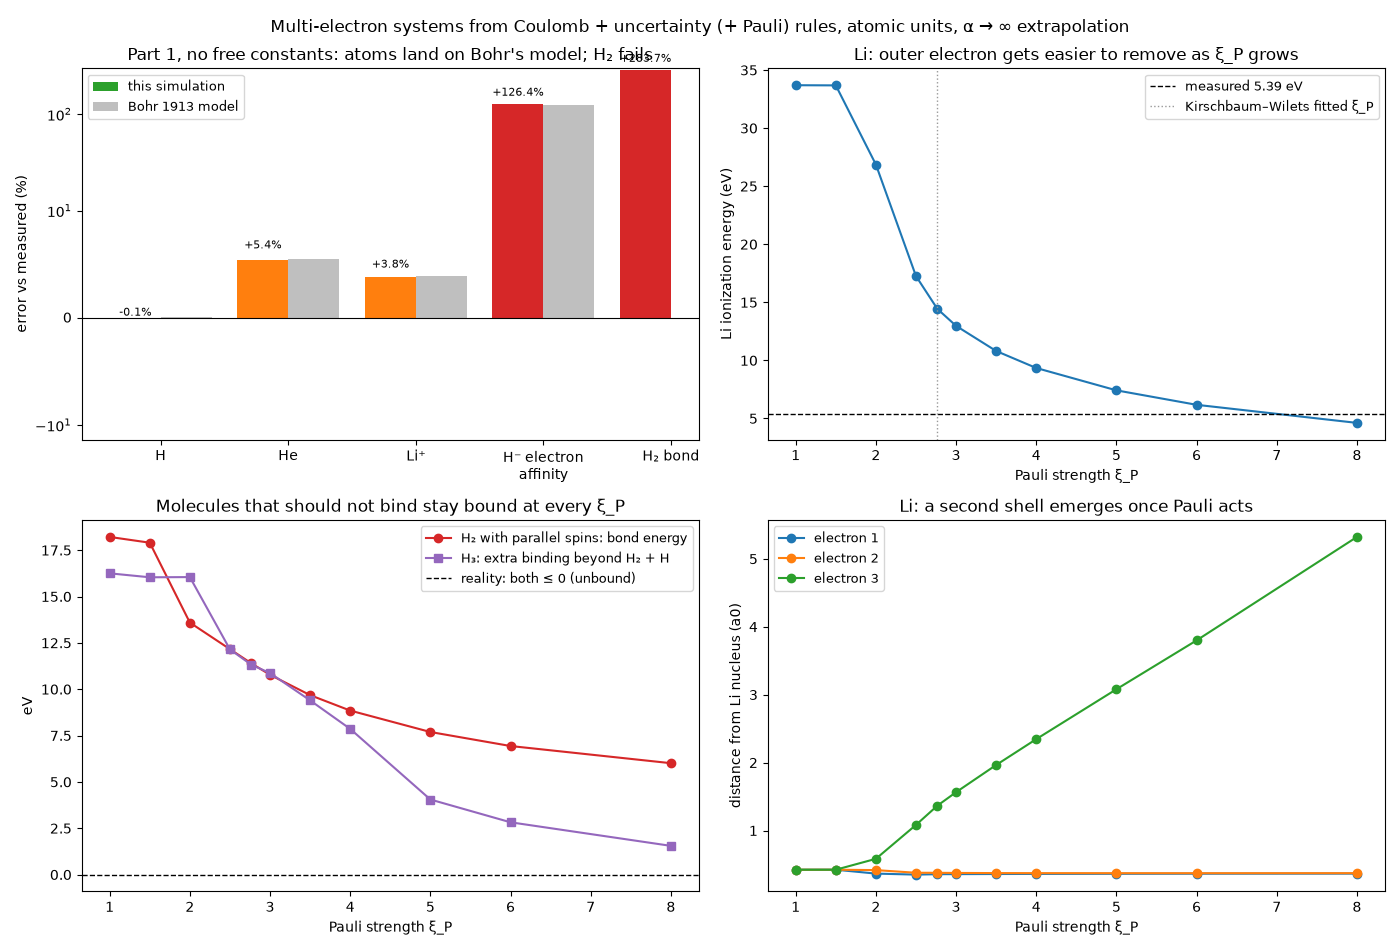
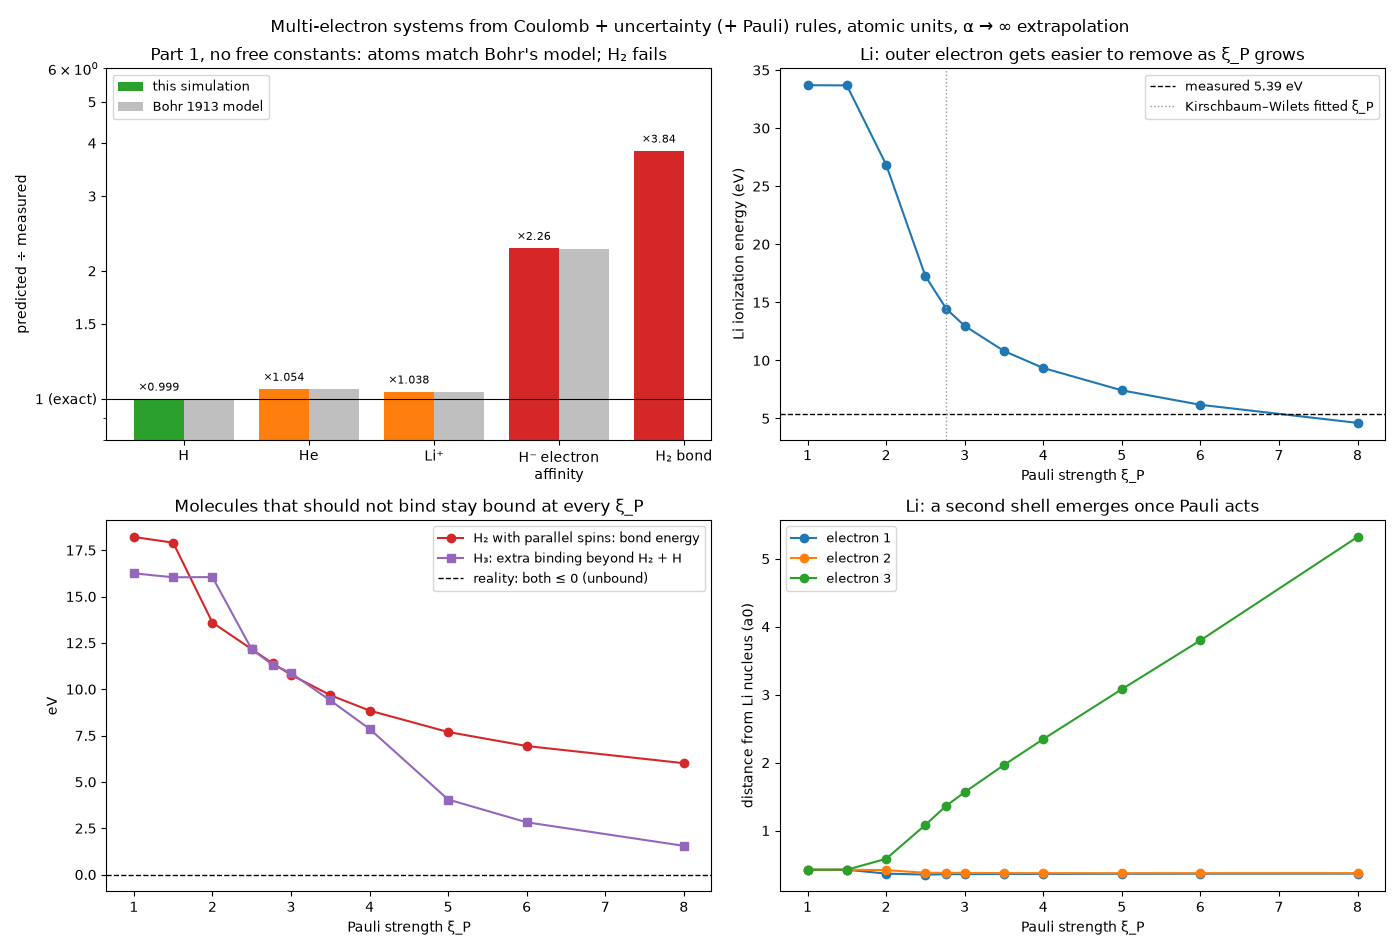
Run multielectron: Bohr-model atoms emerge; H2 exposes a hole; Pauli not universal
No free constants: two-electron atoms reproduce Bohr's 1913 model exactly
(He 83.28 vs Bohr 83.34 vs measured 79.01 eV), and the H electron
affinity matches Bohr too. H2 is bound 3.8x too strongly (18.2 vs 4.75
eV), because the pairwise uncertainty wall measures each electron's
distance to each nucleus rather than its own spread.

Pauli map (xi_P 1 to 8): lithium grows a second shell on its own, and
lithium alone would pick xi_P ~ 7, but H2 with parallel spins and H3 stay
bound at every value. No value is fitted. PRINCIPLES.md records the hole
and the likely missing rule (a per-particle spatial width).

Claude-Session: https://claude.ai/code/session_01WXyztVK4JFomJr8VpnCic7

diff --git a/results/multielectron/FINDINGS.md b/results/multielectron/FINDINGS.md
@@ -1,0 +1,119 @@
+# multielectron: findings
+
+Script: `run_multielectron.py` · commit `746ffa2` · 38 ground-state searches, ~3 min on 4 cores.
+Data: `results.csv`, `provenance.json` (commit and measured reference values).
+Units: atomic units, real nuclear masses (He-4 nucleus is a boson, the others
+fermions).
+
+![multielectron](multielectron.png)
+
+## Questions
+
+1. Does the uncertainty rule that gave exact one-electron atoms
+   (`results/hydrogen_emergence/`) still work with several electrons and
+   several nuclei, with no new constants?
+2. Can a Pauli rule with **one** universal strength ξ_P make lithium, H₂
+   with parallel spins and H₃ all come out right?
+
+## Rules
+
+| Rule | Acts on | Constant |
+|---|---|---|
+| Coulomb | every pair | none |
+| UncertaintyCore, r · p ≥ ħ | every pair | ξ = 1, fixed |
+| PauliCore, r · p ≥ ξ_P ħ | identical fermions with the same spin | ξ_P, scanned 1 to 8 |
+
+Ground states are the lowest minimum of H(q, p) over 16 random starts per
+atom and 32 per molecule, at wall stiffness α = 5, 10, 20, 40, extrapolated
+to α → ∞. The minimizer finds the same states as friction dynamics
+(`tests/test_groundstate.py`).
+
+## Part 1: no free constants (no same-spin electrons, so Pauli cannot act)
+
+| quantity | predicted | measured | error | Bohr's 1913 model |
+|---|---|---|---|---|
+| H binding | 13.590 eV | 13.598 eV | −0.1% | 13.606 eV |
+| He total binding | 83.279 eV | 79.005 eV | +5.4% | 83.335 eV |
+| Li⁺ total binding | 205.716 eV | 198.094 eV | +3.8% | 205.786 eV |
+| H⁻ electron affinity | 1.707 eV | 0.754 eV | +126% | 1.701 eV |
+| H₂ bond energy | 18.215 eV | 4.747 eV | +284% | (Bohr: underbound) |
+| H₂ bond length | 1.118 a0 | 1.401 a0 | −20% | |
+
+**Atoms reproduce Bohr's old quantum theory, digit for digit.** In every
+two-electron atom the electrons settle on opposite sides of one orbit, and
+the energy is Bohr's E = −(Z − ¼)² Hartree (differences are the reduced
+mass and extrapolation). That model is known to overbind helium by about
+5%, and this failure was one of the reasons physics moved from orbits to
+wave mechanics in 1925–26. The rules have independently arrived at the
+same place, and the same wrong answer.
+
+**Molecules fail badly.** H₂ is bound almost 4× too strongly and 20% too
+short. The geometry shows why: the two electrons circle the axis between the
+protons on a ring of radius 0.56 a0, each 0.79 a0 from both protons. The
+rule asks only that each electron's *distance to each proton* times momentum
+is at least ħ. The uncertainty principle is really about the electron's *own*
+confinement, here the 0.56 a0 ring. In a one-nucleus atom the two distances
+are the same thing, so hydrogen and helium work. With two nuclei they come
+apart, the rule under-charges for squeezing the electrons, and the molecule
+overbinds.
+
+This is the first clear hole the project has found in its own rules: **a
+pairwise phase-space wall is a two-body stand-in for a one-body quantity
+(each particle's spatial spread), and that stand-in breaks as soon as a
+particle is shared between two centres.**
+
+## Part 2: the Pauli map
+
+| ξ_P | Li ionization (eV) | H₂ parallel-spin bond (eV) | H₃ binding beyond H₂ + H (eV) | Li outer electron (a0) |
+|---|---|---|---|---|
+| 1 | 33.70 | 18.22 | 16.25 | 0.42 (no shell) |
+| 2 | 26.87 | 13.60 | 16.05 | 0.58 |
+| 2.767 (KW fitted) | 14.43 | 11.40 | 11.32 | 1.37 |
+| 4 | 9.35 | 8.85 | 7.86 | 2.35 |
+| 6 | 6.18 | 6.94 | 2.82 | 3.80 |
+| 8 | 4.62 | 6.01 | 1.55 | 5.32 |
+| **measured** | **5.39** | **unbound (≤ 0)** | **unbound (≤ 0)** | 3.87 (average of real 2s) |
+
+- **Shells emerge from the Pauli rule.** From ξ_P ≈ 2.5 up, lithium's third
+  electron (the one sharing a spin with another) moves out, while the other
+  two stay at 0.36 a0. The rule never mentions shells.
+- **Lithium alone would pick ξ_P ≈ 7.** That is where the ionization energy
+  crosses the measured 5.39 eV, with the outer electron at about 4.5 a0.
+- **No single ξ_P works.** At ξ_P ≈ 7, H₂ with parallel spins is still bound
+  by about 6.5 eV and H₃ by about 2 eV; in reality both are unbound. Both
+  curves fall as ξ_P grows but never reach zero in the range scanned,
+  because the Part 1 molecule overbinding sits underneath them.
+
+**Verdict:** on top of the current uncertainty rule, the Pauli strength
+cannot be a universal constant. Fitting it to lithium would hide the real
+problem, so we do not adopt a value.
+
+## Robustness notes
+
+- At α = 40 every start reached the lowest energy for all atoms (16 of 16).
+  For H₂ with opposite spins 23 of 32 starts did; for H₂ with parallel spins
+  3 to 32 of 32 depending on ξ_P; for H₃ only 1 to 11 of 32. H₃'s landscape
+  is rugged, so its true minimum could lie lower still; that would only
+  strengthen "H₃ is wrongly bound".
+- Some starts hit the minimizer's iteration cap (counted per system in
+  `results.csv`, columns `capped_a*`). The cap mostly marks slow final
+  convergence along flat directions: for Li⁺, 7 of 16 starts were capped
+  and all 16 still reached the same lowest energy.
+- Energies are extrapolated linearly in 1/α from α = 20 and 40; for the
+  one-electron case this extrapolation was accurate to 0.03%.
+
+## What the next fundamental rule should be
+
+The hole points to its own fix: **give every particle its own spatial
+spread as a degree of freedom**, a wave-packet width s with its conjugate
+momentum, instead of a pairwise wall. Confining a particle then costs
+kinetic energy of order ħ²/(m s²) no matter how many partners it has, and
+Coulomb forces between spread-out particles soften at short range. This is
+the step from Bohr's orbits to wave mechanics. The electron force field of
+Su & Goddard (Phys. Rev. Lett. 99, 185003, 2007) is a worked example of
+this idea; its Pauli correction contains fitted constants, which our
+principles would have to address separately.
+
+Prediction to test: with a per-particle width rule, H₂ should stop
+overbinding. Whether H₂ with parallel spins and H₃ then come out unbound,
+and whether one Pauli strength then fits everything, is the real test.

diff --git a/PRINCIPLES.md b/PRINCIPLES.md
@@ -28,4 +28,11 @@ structure emerge and compare it with reality.**
 | `CoreRepulsion` (c / r^n) | **Placeholder.** c is chosen by hand, and it sets the size and binding energy of every bound pair. It stands in for quantum effects and is being replaced by `UncertaintyCore`. |
 | `Yukawa` | Fundamental in form (massive mediator); unused so far. |
 | `UncertaintyCore` (r · p ≥ ξħ for every pair) | Fundamental in intent: one universal rule, ξ = 1 and ħ = 1 in atomic units, fixed before any run. Its wall stiffness α is numerical and is checked for convergence. With it, hydrogen, He⁺ and positronium ground-state energies emerge within 0.03% of measurement (`results/hydrogen_emergence/`). ξ = 1 is a choice (the de Broglie condition), supported by that universality, not derived. |
+| `PauliCore` (r · p ≥ ξ_P ħ for identical same-spin fermions) | **Not universal as it stands.** ξ_P has no first-principles value in this form. Scanning it: lithium alone would pick ξ_P ≈ 7, but at no value in 1–8 do H₂ with parallel spins or H₃ come out unbound (`results/multielectron/`). Not adopted; no value is fitted. |
 | Heat bath / friction | Stand-in for energy carried away by radiation. It removes energy only; it must not select what forms. |
+
+## Known holes
+
+| Hole | Evidence | Likely missing rule |
+|---|---|---|
+| Pairwise uncertainty wall is a two-body stand-in for each particle's own spread. Works for one-nucleus atoms (reproduces Bohr's 1913 model exactly, including its 5% helium overbinding) but breaks with two nuclei: H₂ bound 3.8× too strongly. | `results/multielectron/FINDINGS.md` | Each particle carries its own spatial spread (a wave-packet width with conjugate momentum): the step from Bohr orbits to wave mechanics. |

diff --git a/README.md b/README.md
@@ -31,6 +31,21 @@ Coulomb + the uncertainty wall settles every random start into one ground
 state, and the same rule predicts the binding energies of hydrogen, He⁺ and
 positronium within 0.03% of measurement, with nothing fitted.
 
+### Multi-electron systems and the Pauli rule
+
+```
+python run_multielectron.py     # ~3 min on 4 cores
+```
+
+Adds spin, a fermion/boson flag and `PauliCore` (identical same-spin
+fermions only), and finds ground states with `emergent/groundstate.py`.
+Result (`results/multielectron/FINDINGS.md`): with no free constants,
+two-electron atoms reproduce Bohr's 1913 model exactly (helium 5% overbound,
+as historically), but H₂ is bound 3.8× too strongly. That is a hole in the
+pairwise uncertainty rule. The Pauli rule makes lithium grow a second shell
+on its own, but no single Pauli strength gets lithium, H₂ with parallel spins
+and H₃ right together.
+
 ## Experiments
 
 An experiment is a TOML file in `experiments/`: species, rules, protocol,
